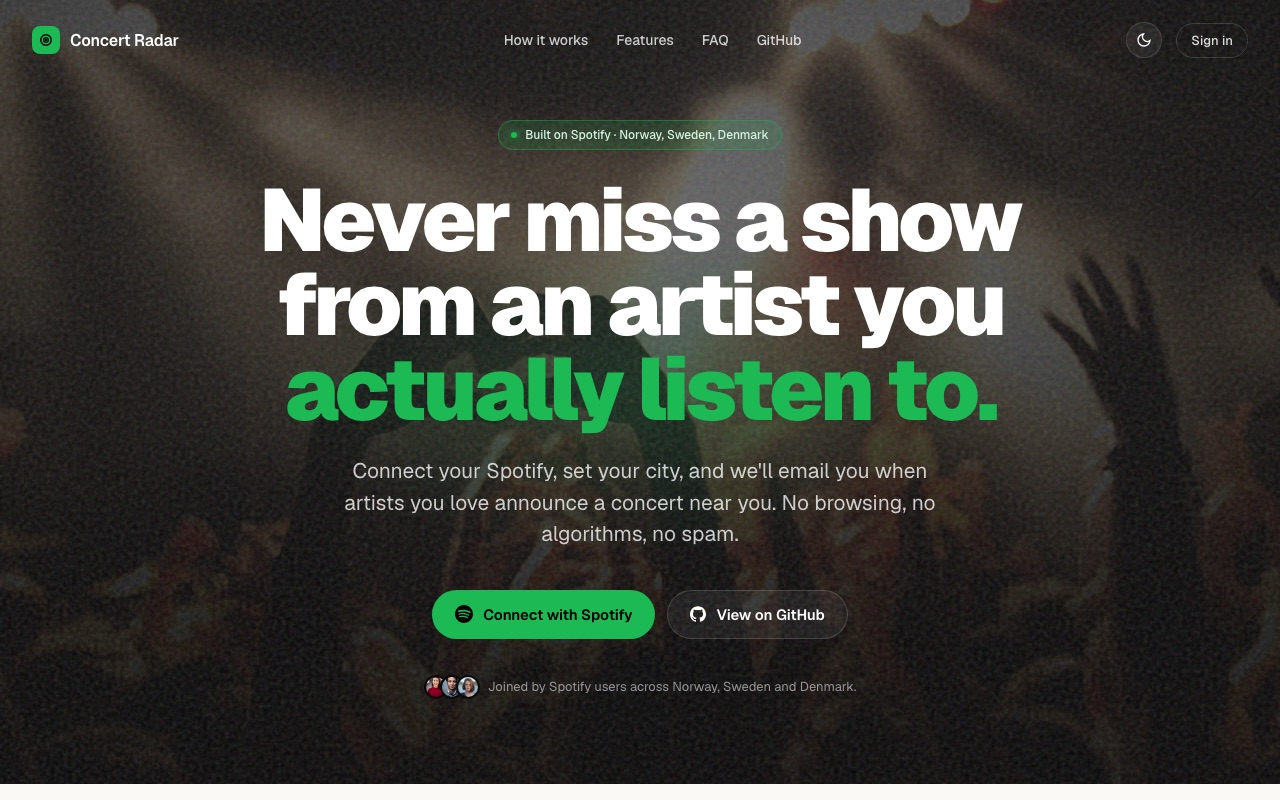
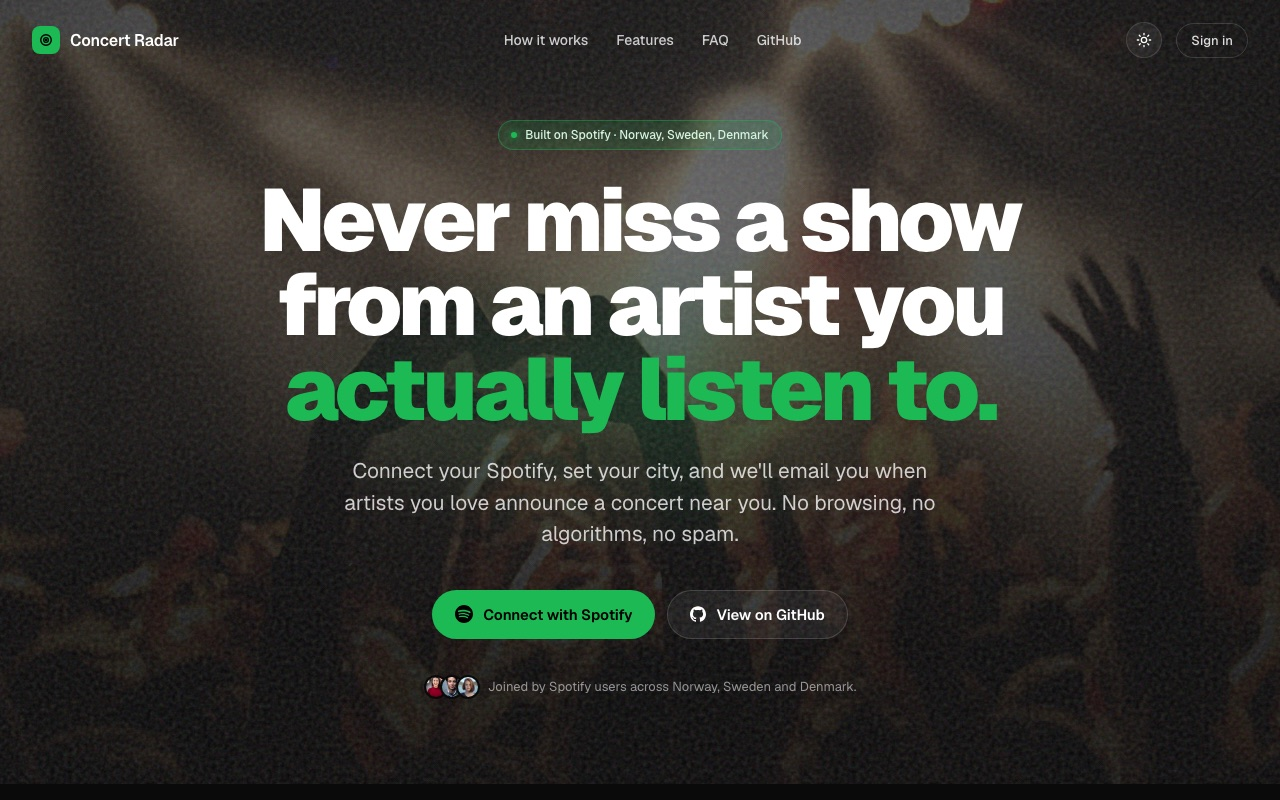
feat(work): Concert Radar case uses dark-theme v2 redesign screenshots

Changed region(s): [[0.0, 0.9688, 1.0, 1.0], [0.875, 0.0312, 0.9062, 0.0625]]

diff --git a/src/data/work.ts b/src/data/work.ts
@@ -108,17 +108,17 @@ const work: CaseStudy[] = [
     images: [
       {
         src: '/work/concert-radar/dashboard.jpg',
-        alt: 'Concert Radar dashboard with oversized type reading “6 upcoming shows near Bergen”, an up-next Sigrid concert card, and source filters.',
+        alt: 'Concert Radar dashboard (dark theme) with oversized type reading “6 upcoming shows near Bergen”, an up-next Sigrid concert card, and source filters on a near-black UI with Spotify-green accents.',
         caption: 'Dashboard',
       },
       {
         src: '/work/concert-radar/landing.jpg',
-        alt: 'Concert Radar landing — “Never miss a show from an artist you actually listen to.” with a Connect with Spotify call to action.',
+        alt: 'Concert Radar landing (dark theme) — “Never miss a show from an artist you actually listen to.” with a Connect with Spotify call to action over a dim concert-crowd hero.',
         caption: 'Landing',
       },
       {
         src: '/work/concert-radar/detail.jpg',
-        alt: 'Concert detail page for Sigrid at USF Verftet in Bergen, showing date, distance, venue, and Ticketmaster ticketing source.',
+        alt: 'Concert detail page (dark theme) for Sigrid at USF Verftet in Bergen, showing date, distance, venue, and Ticketmaster ticketing source on a near-black layout with Spotify-green accents.',
         caption: 'Concert detail',
       },
     ],